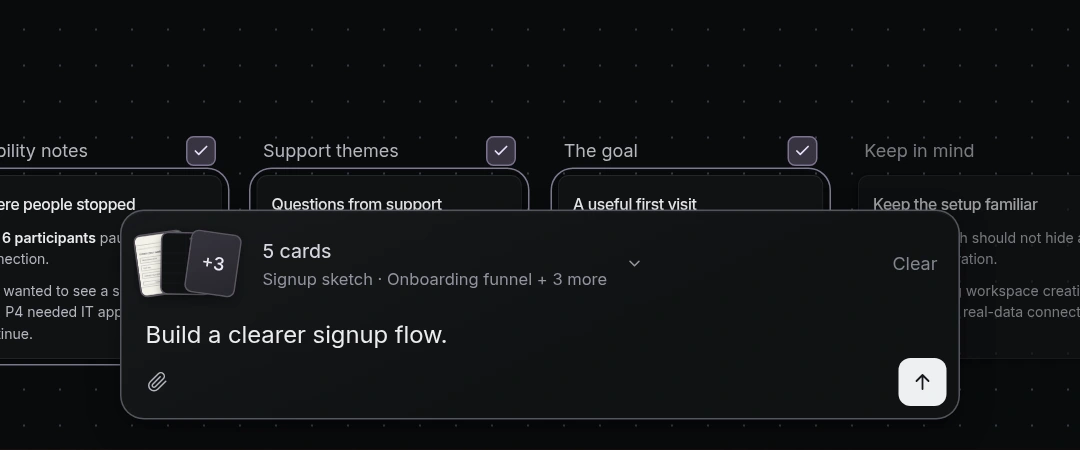
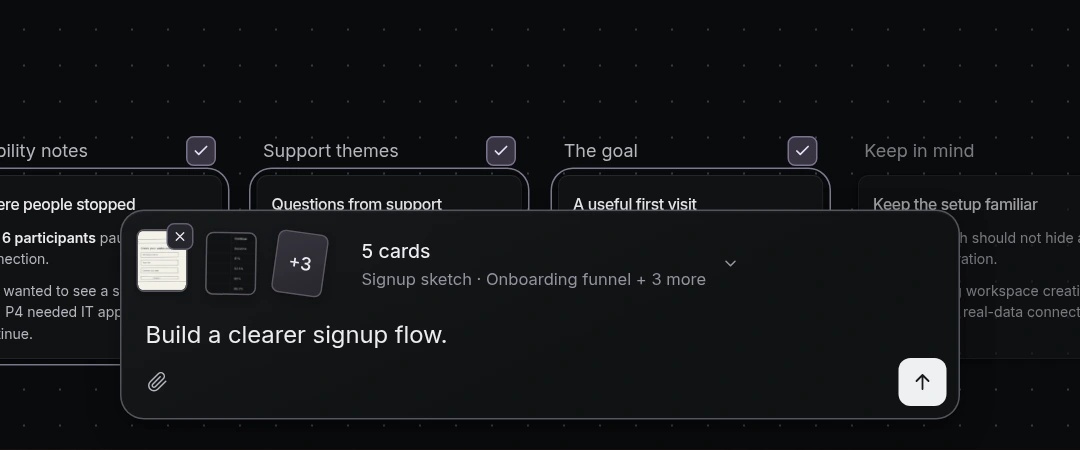
Place contextual dismiss controls directly on stack previews

Changed region(s): [[0.1222, 0.4978, 0.6417, 0.6844], [0.825, 0.56, 0.8556, 0.6222]]

diff --git a/studies/jarwiz-selection-stack/interaction.js b/studies/jarwiz-selection-stack/interaction.js
@@ -1,23 +1,23 @@
-const cards=window.selectionCards,byId=new Map(cards.map(c=>[c.id,c])),app=document.querySelector('#app'),canvas=document.querySelector('#canvas'),sources=document.querySelector('#sources'),composer=document.querySelector('#composer'),prompt=document.querySelector('#prompt'),region=document.querySelector('#context-region'),stack=document.querySelector('#stack-control'),popover=document.querySelector('#context-popover'),list=document.querySelector('#context-list'),scope=document.querySelector('#scope'),clear=document.querySelector('#clear-context'),status=document.querySelector('#review-status'),send=document.querySelector('#send');
+const cards=window.selectionCards,byId=new Map(cards.map(c=>[c.id,c])),app=document.querySelector('#app'),canvas=document.querySelector('#canvas'),sources=document.querySelector('#sources'),composer=document.querySelector('#composer'),prompt=document.querySelector('#prompt'),region=document.querySelector('#context-region'),stack=document.querySelector('#stack-control'),popover=document.querySelector('#context-popover'),list=document.querySelector('#context-list'),scope=document.querySelector('#scope'),stackGroup=document.querySelector('#stack-group'),previews=document.querySelector('#stack-previews'),status=document.querySelector('#review-status'),send=document.querySelector('#send');
 const closeIcon='<svg width="12" height="12" viewBox="0 0 16 16" fill="none" aria-hidden="true"><path d="m4 4 8 8m0-8-8 8" stroke="currentColor" stroke-width="1.4" stroke-linecap="round"/></svg>',checkIcon='<svg width="12" height="12" viewBox="0 0 16 16" fill="none" aria-hidden="true"><path d="m3 8 3 3 7-7" stroke="currentColor" stroke-width="1.5" stroke-linecap="round" stroke-linejoin="round"/></svg>';
 let selected=new Set(cards.slice(0,[1,2,5].includes(Number(new URLSearchParams(location.search).get('count')))?Number(new URLSearchParams(location.search).get('count')):1).map(c=>c.id)),variant='top',busy=false,timer=null,hot=null;const reduced=matchMedia('(prefers-reduced-motion: reduce)');
 const esc=s=>String(s).replaceAll('&','&amp;').replaceAll('"','&quot;').replaceAll('<','&lt;');
 for(const c of cards){const el=document.createElement('div');el.className='source tl-shape';el.dataset.source=c.id;el.dataset.shapeId=c.id;el.setAttribute('role','option');el.setAttribute('aria-label',c.title);el.tabIndex=0;el.innerHTML=`<span class="source-title">${esc(c.title)}</span><div class="tl-html-container" inert>${c.html}</div><span class="source-check" aria-hidden="true">${checkIcon}</span>`;sources.append(el);const root=el.querySelector('.tl-html-container').firstElementChild;root.style.removeProperty('outline');root.style.removeProperty('outline-offset');el.addEventListener('click',e=>{if(drag?.moved)return;changeCard(c.id,e.shiftKey||e.target.closest('.source-check')||innerWidth<650)});el.addEventListener('keydown',e=>{if(e.key===' '||e.key==='Enter'){e.preventDefault();changeCard(c.id,true)}});el.addEventListener('mouseenter',()=>highlight(c.id));el.addEventListener('mouseleave',()=>highlight(null));}
 function highlight(id){hot=id;for(const el of document.querySelectorAll('[data-source],[data-context]'))el.classList.toggle('is-hot',el.dataset.source===id||el.dataset.context===id)}
 function closePopover(){popover.hidden=true;stack.setAttribute('aria-expanded','false')}
-function openPopover(){if(!selected.size)return;popover.hidden=false;stack.setAttribute('aria-expanded','true');placeComposer()}
+function openPopover(remaining=false){if(!selected.size)return;popover.hidden=false;stack.setAttribute('aria-expanded','true');placeComposer();if(remaining)list.scrollTop=Math.max(0,(list.children[2]?.offsetTop||0)-(list.firstElementChild?.offsetTop||0));else list.scrollTop=0}
 function changeCard(id,add){if(busy)finish();if(add){selected.has(id)?selected.delete(id):selected.add(id)}else selected=new Set([id]);render()}
-function removeCard(id){if(busy)finish();selected.delete(id);render();prompt.focus({preventScroll:true})}
+function removeCard(id){if(busy)finish();selected.delete(id);hot=null;render();prompt.focus({preventScroll:true})}
 function render(){
  const active=[...selected].map(id=>byId.get(id)),n=active.length;
  for(const el of sources.children){const on=selected.has(el.dataset.source);el.classList.toggle('is-selected',on);el.classList.toggle('is-excluded',n>0&&!on);el.setAttribute('aria-selected',String(on))}
- list.innerHTML=active.map(c=>`<div class="context-entry" data-context="${esc(c.id)}"><img src="${c.thumb}" alt=""><span class="label">${esc(c.title)}<small>${c.kind==='image-card'?'Image':c.kind==='table-card'?'Table':'Document'}</small></span><button type="button" class="remove-context" data-remove="${esc(c.id)}" aria-label="Remove ${esc(c.title)}">${closeIcon}</button></div>`).join('');
- region.classList.toggle('is-hidden',n===0);stack.hidden=n===0;stack.dataset.size=n===1?'one':n===2?'two':'many';
+ list.innerHTML=active.map(c=>`<div class="context-entry" data-context="${esc(c.id)}"><div class="entry-preview"><img src="${c.thumb}" alt=""><button type="button" class="preview-dismiss" data-remove="${esc(c.id)}" aria-label="Remove ${esc(c.title)}">${closeIcon}</button></div><span class="label">${esc(c.title)}<small>${c.kind==='image-card'?'Image':c.kind==='table-card'?'Table':'Document'}</small></span></div>`).join('');
+ region.classList.toggle('is-hidden',n===0);stackGroup.hidden=n===0;stackGroup.dataset.size=n===1?'one':n===2?'two':'many';
  const visible=n>3?active.slice(0,2):active.slice(0,3);
- stack.querySelector('.mini-stack').innerHTML=visible.map(c=>`<img data-context="${esc(c.id)}" src="${c.thumb}" alt="">`).join('')+(n>3?`<span class="stack-tail" aria-hidden="true">+${n-2}</span>`:'');
+ previews.innerHTML=visible.map(c=>`<div class="stack-preview" data-context="${esc(c.id)}"><button type="button" class="preview-open" data-open-context aria-label="Review ${esc(c.title)}"><img src="${c.thumb}" alt=""></button><button type="button" class="preview-dismiss" data-remove="${esc(c.id)}" aria-label="Remove ${esc(c.title)}">${closeIcon}</button></div>`).join('')+(n>3?`<button type="button" class="stack-tail" data-open-remaining aria-label="Review ${n-2} more selected cards">+${n-2}</button>`:'');
  stack.querySelector('.stack-label').textContent=n+' '+(n===1?'card':'cards');
  stack.querySelector('.stack-detail').textContent=n>3?active.slice(0,2).map(c=>c.title).join(' · ')+' + '+(n-2)+' more':active.map(c=>c.title).join(' · ');
- stack.setAttribute('aria-label','Using '+n+' '+(n===1?'card':'cards')+'. Review selected context');scope.hidden=n>0;scope.textContent='Board context';clear.hidden=n===0;
+ stack.setAttribute('aria-label','Using '+n+' '+(n===1?'card':'cards')+'. Review selected context');scope.hidden=n>0;scope.textContent='Board context';
  document.querySelector('#popover-title').textContent='Using '+n+' '+(n===1?'card':'cards');
  prompt.placeholder=n===0?'Ask about anything on this board…':n===1?'What would you like to make from this?':'What would you like to make from these?';
  if(!n)closePopover();status.textContent=n?n+' '+(n===1?'card selected':'cards selected'):'No selection · the whole board is context';
@@ -32,11 +32,10 @@ function placeComposer(){const box=selectionBounds(),group=document.querySelecto
 function finish(){clearTimeout(timer);busy=false;composer.setAttribute('aria-busy','false');send.classList.remove('is-busy');send.setAttribute('aria-label','Send prompt');canvas.querySelector('.jz-board-context-field')?.remove();document.querySelector('.tl-background').classList.remove('jz-board-context-background');sources.querySelectorAll('.jz-board-context-reading').forEach(el=>{el.classList.remove('jz-board-context-reading');el.style.removeProperty('--jz-context-delay')});prompt.readOnly=false;}
 composer.addEventListener('submit',e=>{e.preventDefault();if(busy){finish();return}if(!prompt.value.trim())return;closePopover();busy=true;composer.setAttribute('aria-busy','true');send.classList.add('is-busy');send.setAttribute('aria-label','Stop generating');prompt.readOnly=true;const ids=selected.size?[...selected]:cards.map(c=>c.id);ids.forEach((id,i)=>{const el=sources.querySelector(`[data-source="${id}"]`);el.style.setProperty('--jz-context-delay',i*65+'ms');el.classList.add('jz-board-context-reading')});const field=document.createElement('div');field.className='jz-board-context-field';canvas.append(field);document.querySelector('.tl-background').classList.add('jz-board-context-background');status.textContent='Request preview · '+(selected.size?ids.length+' selected cards':'the whole board')+' · no model call';timer=setTimeout(finish,5900)});
 prompt.addEventListener('input',()=>{prompt.style.height='24px';prompt.style.height=Math.min(96,prompt.scrollHeight)+'px';send.disabled=!prompt.value.trim();placeComposer()});prompt.addEventListener('keydown',e=>{if(e.key==='Enter'&&!e.shiftKey){e.preventDefault();composer.requestSubmit()}});
-for(const container of [list]){container.addEventListener('click',e=>{const remove=e.target.closest('[data-remove]');if(remove){e.preventDefault();removeCard(remove.dataset.remove)}});container.addEventListener('pointerover',e=>{const chip=e.target.closest('[data-context]');if(chip)highlight(chip.dataset.context)});container.addEventListener('pointerleave',()=>highlight(null));container.addEventListener('focusin',e=>{const chip=e.target.closest('[data-context]');if(chip)highlight(chip.dataset.context)});container.addEventListener('focusout',()=>highlight(null));}
+for(const container of [list,previews]){container.addEventListener('click',e=>{const remove=e.target.closest('[data-remove]');if(remove){e.preventDefault();removeCard(remove.dataset.remove)}});container.addEventListener('pointerover',e=>{const chip=e.target.closest('[data-context]');if(chip)highlight(chip.dataset.context)});container.addEventListener('pointerleave',()=>highlight(null));container.addEventListener('focusin',e=>{const chip=e.target.closest('[data-context]');if(chip)highlight(chip.dataset.context)});container.addEventListener('focusout',()=>highlight(null));}
 stack.addEventListener('click',()=>popover.hidden?openPopover():closePopover());
-stack.addEventListener('pointerover',e=>{const thumb=e.target.closest('[data-context]');highlight(thumb?thumb.dataset.context:null)});stack.addEventListener('pointerleave',()=>highlight(null));
+previews.addEventListener('click',e=>{if(e.target.closest('[data-open-context]'))openPopover();if(e.target.closest('[data-open-remaining]'))openPopover(true)});
 document.querySelector('#close-context').addEventListener('click',()=>{closePopover();stack.focus()});
-clear.addEventListener('click',()=>{finish();selected.clear();render();prompt.focus({preventScroll:true})});
 document.querySelector('.attach').addEventListener('click',()=>status.textContent='This review focuses on selected cards; file upload is unchanged.');
 for(const b of document.querySelectorAll('button[data-count]'))b.addEventListener('click',()=>selectCount(Number(b.dataset.count)));
 document.addEventListener('keydown',e=>{if(e.key==='Escape'){if(!popover.hidden){closePopover();stack.focus()}else{finish();selected.clear();render()}}if((e.ctrlKey||e.metaKey)&&e.key==='a'&&document.activeElement!==prompt){e.preventDefault();selectCount(cards.length)}});

diff --git a/studies/jarwiz-selection-stack/index.html b/studies/jarwiz-selection-stack/index.html
@@ -1,11 +1,11 @@
-<!doctype html><html lang="en"><head><meta charset="utf-8"><meta name="viewport" content="width=device-width,initial-scale=1"><meta name="robots" content="noindex"><title>Jarwiz · Stack above the prompt</title><link rel="stylesheet" href="./style.css?v=1"><link rel="stylesheet" href="./top-stack.css?v=1"><link rel="stylesheet" href="./bloom.css"></head><body><main>
+<!doctype html><html lang="en"><head><meta charset="utf-8"><meta name="viewport" content="width=device-width,initial-scale=1"><meta name="robots" content="noindex"><title>Jarwiz · Stack above the prompt</title><link rel="stylesheet" href="./style.css?v=1"><link rel="stylesheet" href="./top-stack.css?v=hover-2"><link rel="stylesheet" href="./bloom.css"></head><body><main>
 <header class="page-header"><div><h1>A bigger stack, above the prompt.</h1><p>One card stays flat. Two fan out. Larger selections show a count.</p></div><a class="case-link" href="../jarwiz-selection-composer/">Previous options ↗</a></header>
-<div class="review-toolbar"><div class="count-tabs" role="group" aria-label="Preview selected card count"><button data-count="1" aria-pressed="true">1 card</button><button data-count="2" aria-pressed="false">2 cards</button><button data-count="5" aria-pressed="false">5 cards</button></div><p class="count-hint">Click the stack to review or remove cards.</p></div>
+<div class="review-toolbar"><div class="count-tabs" role="group" aria-label="Preview selected card count"><button data-count="1" aria-pressed="true">1 card</button><button data-count="2" aria-pressed="false">2 cards</button><button data-count="5" aria-pressed="false">5 cards</button></div><p class="count-hint">Hover a preview to dismiss it. Click the stack to see every card.</p></div>
 <div id="study-panel" aria-label="Selected-card composer prototype" class="study-frame"><div class="browser"><div class="chrome" aria-hidden="true"><i></i><i></i><i></i></div><div class="app" id="app" data-variant="top"><div class="tl-canvas" id="canvas"><div class="tl-background"></div><div class="selection-group" aria-hidden="true"></div><div id="sources" role="listbox" aria-label="Board cards" aria-multiselectable="true"></div><div id="marquee" aria-hidden="true"></div></div><div class="product-logo" aria-label="Jarwiz"><svg width="19" height="19" viewBox="0 0 24 24" aria-hidden="true"><path d="M12 1c1.7 7.4 3.6 9.3 11 11-7.4 1.7-9.3 3.6-11 11C10.3 15.6 8.4 13.7 1 12c7.4-1.7 9.3-3.6 11-11Z" fill="currentColor"/></svg></div>
-<form class="composer jz-promptbar" id="composer" aria-label="Ask Jarwiz"><div id="context-region" class="context-region"><div class="context-clip"><div class="top-context"><button class="top-stack" id="stack-control" type="button" aria-expanded="false" aria-controls="context-popover"><span class="mini-stack" aria-hidden="true"></span><span class="stack-copy"><span class="stack-label">1 card</span><span class="stack-detail">Signup sketch</span></span><svg width="12" height="12" viewBox="0 0 16 16" fill="none" aria-hidden="true"><path d="m4 6 4 4 4-4" stroke="currentColor" stroke-width="1.4" stroke-linecap="round" stroke-linejoin="round"/></svg></button><button id="clear-context" class="clear-context" type="button">Clear</button></div></div></div><div class="writing"><textarea id="prompt" rows="1" aria-label="Your prompt" placeholder="What would you like to make from these?">Build a clearer signup flow.</textarea></div><div class="composer-footer"><button class="icon-button attach" type="button" aria-label="Attach a file" title="File upload is outside this selection study"><svg width="14" height="14" viewBox="0 0 24 24" fill="none" stroke="currentColor" stroke-width="1.7" stroke-linecap="round" stroke-linejoin="round" aria-hidden="true"><path d="m21.44 11.05-9.19 9.19a6 6 0 0 1-8.49-8.49l9.19-9.19a4 4 0 0 1 5.66 5.66l-9.2 9.19a2 2 0 0 1-2.83-2.83l8.49-8.48"/></svg></button><span class="scope" id="scope" hidden>Board context</span><span class="footer-space"></span><button class="send" id="send" type="submit" aria-label="Send prompt" title="Preview this request"><span class="send-label">Generating</span><svg class="send-arrow" width="16" height="16" viewBox="0 0 24 24" fill="none" stroke="currentColor" stroke-width="1.8" stroke-linecap="round" stroke-linejoin="round" aria-hidden="true"><path d="M12 19V5m-6 6 6-6 6 6"/></svg><span class="send-stop" aria-hidden="true"></span></button></div><div class="context-popover" id="context-popover" hidden><div class="popover-heading"><span id="popover-title">Using 1 card</span><button type="button" id="close-context" class="text-button">Done</button></div><div id="context-list"></div></div></form>
+<form class="composer jz-promptbar" id="composer" aria-label="Ask Jarwiz"><div id="context-region" class="context-region"><div class="context-clip"><div class="top-context"><div class="top-stack" id="stack-group"><div class="mini-stack" id="stack-previews" role="group" aria-label="Selected card previews"></div><button class="stack-summary" id="stack-control" type="button" aria-expanded="false" aria-controls="context-popover"><span class="stack-copy"><span class="stack-label">1 card</span><span class="stack-detail">Signup sketch</span></span><svg width="12" height="12" viewBox="0 0 16 16" fill="none" aria-hidden="true"><path d="m4 6 4 4 4-4" stroke="currentColor" stroke-width="1.4" stroke-linecap="round" stroke-linejoin="round"/></svg></button></div></div></div></div><div class="writing"><textarea id="prompt" rows="1" aria-label="Your prompt" placeholder="What would you like to make from these?">Build a clearer signup flow.</textarea></div><div class="composer-footer"><button class="icon-button attach" type="button" aria-label="Attach a file" title="File upload is outside this selection study"><svg width="14" height="14" viewBox="0 0 24 24" fill="none" stroke="currentColor" stroke-width="1.7" stroke-linecap="round" stroke-linejoin="round" aria-hidden="true"><path d="m21.44 11.05-9.19 9.19a6 6 0 0 1-8.49-8.49l9.19-9.19a4 4 0 0 1 5.66 5.66l-9.2 9.19a2 2 0 0 1-2.83-2.83l8.49-8.48"/></svg></button><span class="scope" id="scope" hidden>Board context</span><span class="footer-space"></span><button class="send" id="send" type="submit" aria-label="Send prompt" title="Preview this request"><span class="send-label">Generating</span><svg class="send-arrow" width="16" height="16" viewBox="0 0 24 24" fill="none" stroke="currentColor" stroke-width="1.8" stroke-linecap="round" stroke-linejoin="round" aria-hidden="true"><path d="M12 19V5m-6 6 6-6 6 6"/></svg><span class="send-stop" aria-hidden="true"></span></button></div><div class="context-popover" id="context-popover" hidden><div class="popover-heading"><span id="popover-title">Using 1 card</span><button type="button" id="close-context" class="icon-button close-list" aria-label="Close context"><svg width="12" height="12" viewBox="0 0 16 16" fill="none" aria-hidden="true"><path d="m4 4 8 8m0-8-8 8" stroke="currentColor" stroke-width="1.4" stroke-linecap="round"/></svg></button></div><div id="context-list"></div></div></form>
 </div></div></div>
 
-<div class="review-footer"><p>Shift-click the board to change context. Your prompt stays intact.</p><p id="review-status" role="status">1 card selected</p></div>
-<section class="stack-examples" aria-label="Single, two and more than three selected cards"><article><button class="example-image" data-count="1" aria-label="Try one card"><img src="./assets/one-card.webp" alt="One selected card is shown as a single larger preview above the prompt" width="720" height="300"></button><h2>One card</h2><p>A single preview, with its title.</p></article><article><button class="example-image" data-count="2" aria-label="Try two cards"><img src="./assets/two-cards.webp" alt="Two selected cards fan into a larger stack above the prompt" width="720" height="300"></button><h2>Two cards</h2><p>Both previews remain visible in the stack.</p></article><article><button class="example-image" data-count="5" aria-label="Try five cards"><img src="./assets/five-cards.webp" alt="A five-card selection shows two source previews and a plus-three card above the prompt" width="720" height="300"></button><h2>More than three</h2><p>Two previews and a +3 card keep five sources compact.</p></article></section>
+<div class="review-footer"><p>Hover reveals ×. Keyboard focus and touch show it too. Your prompt stays intact.</p><p id="review-status" role="status">1 card selected</p></div>
+<section class="stack-examples" aria-label="Single, two and more than three selected cards"><article><button class="example-image" data-count="1" aria-label="Try one card"><img src="./assets/one-card.webp?v=hover-2" alt="One selected card is shown as a single larger preview above the prompt" width="720" height="300"></button><h2>One card</h2><p>A single preview, with its title.</p></article><article><button class="example-image" data-count="2" aria-label="Try two cards"><img src="./assets/two-cards.webp?v=hover-2" alt="Two selected cards fan into a larger stack above the prompt" width="720" height="300"></button><h2>Two cards</h2><p>Both previews remain visible in the stack.</p></article><article><button class="example-image" data-count="5" aria-label="Try five cards"><img src="./assets/five-cards.webp?v=hover-2" alt="A five-card selection shows two source previews and a plus-three card above the prompt" width="720" height="300"></button><h2>More than three</h2><p>Two previews and a +3 card keep five sources compact.</p></article></section>
 <p class="study-note">This is an interaction preview. Send shows which cards would be used; no model is called. The product and the next video are unchanged.</p>
-</main><script src="./cards.js"></script><script src="./interaction.js?v=1"></script></body></html>
+</main><script src="./cards.js"></script><script src="./interaction.js?v=hover-2"></script></body></html>

diff --git a/studies/jarwiz-selection-stack/top-stack.css b/studies/jarwiz-selection-stack/top-stack.css
@@ -1,2 +1,4 @@
 .count-tabs{display:flex;gap:4px;padding:4px;border:1px solid #ffffff0d;border-radius:12px;background:#1c1c1c}.count-tabs button{padding:9px 20px;border:0;border-radius:8px;background:none;color:#969696;font-size:14px;transition:background .16s,color .16s}.count-tabs button[aria-pressed=true]{background:#303030;color:#f0f0f0}.count-hint{font-size:13px;color:#929292}.review-toolbar{margin-bottom:20px}.top-context{display:flex;align-items:center;gap:8px;min-height:54px;margin-bottom:8px}.top-stack{display:flex;align-items:center;gap:10px;min-height:54px;min-width:0;max-width:calc(100% - 44px);padding:0 4px 0 0;border:0;border-radius:8px;background:none;text-align:left;color:#d7d8de}.top-stack:hover .stack-label,.top-stack[aria-expanded=true] .stack-label{color:#f1eff5}.top-stack>svg{flex:0 0 12px;margin-left:2px;color:#94949f;transition:transform .18s}.top-stack[aria-expanded=true]>svg{transform:rotate(180deg)}.top-stack .mini-stack{position:relative;display:block;flex:0 0 auto;height:52px;width:76px;isolation:isolate;transition:width .22s cubic-bezier(.22,1,.36,1)}.top-stack[data-size=one] .mini-stack{width:44px}.top-stack[data-size=two] .mini-stack{width:62px}.top-stack .mini-stack img,.top-stack .stack-tail{position:absolute;top:5px;width:34px;height:42px;border:1px solid #5b5660;border-radius:5px;box-shadow:0 2px 6px #0004;object-fit:cover;object-position:top;background:#25262b;transition:transform .2s cubic-bezier(.22,1,.36,1),left .2s cubic-bezier(.22,1,.36,1)}.top-stack .mini-stack img:nth-child(1){left:2px;z-index:1;transform:rotate(-8deg)}.top-stack .mini-stack img:nth-child(2){left:18px;z-index:2;transform:rotate(1deg)}.top-stack .mini-stack img:nth-child(3),.top-stack .stack-tail{left:36px;z-index:3;transform:rotate(8deg)}.top-stack[data-size=one] .mini-stack img{left:2px;transform:rotate(0)}.top-stack[data-size=two] .mini-stack img:nth-child(2){left:22px;transform:rotate(6deg)}.top-stack .stack-tail{display:grid;place-items:center;background:linear-gradient(155deg,#36343d,#27272e);font-size:12px;line-height:18px;font-weight:500;color:#eee9f5}.top-stack:hover .mini-stack img:first-child{transform:rotate(-10deg) translateX(-1px)}.top-stack[data-size=one]:hover .mini-stack img{transform:rotate(-2deg)}.stack-copy{display:flex;flex-direction:column;gap:2px;min-width:0;max-width:330px}.stack-label{font:450 13px/18px 'Inter Variable',Arial,sans-serif;color:#d6d6df;white-space:nowrap}.stack-detail{font:400 11px/16px 'Inter Variable',Arial,sans-serif;color:#92949e;white-space:normal;text-wrap:pretty}.top-context .clear-context{margin-left:auto;flex:0 0 auto;padding:4px 6px}.composer-footer .scope[hidden]{display:none}.context-popover{width:350px}.popover-heading{padding:4px 5px 8px}.context-entry{padding:7px 6px}.context-entry img{width:50px;height:38px}.stack-examples{display:grid;grid-template-columns:repeat(3,1fr);gap:24px;margin-top:48px}.example-image{display:block;padding:0;width:100%;border:1px solid #ffffff0c;background:#202123;border-radius:12px;overflow:hidden}.example-image:hover{border-color:#ffffff30}.example-image img{display:block;width:100%;height:auto;aspect-ratio:2.4;object-fit:cover}.stack-examples h2{margin:16px 0 6px;font-size:17px;line-height:24px;font-weight:400}.stack-examples p{font-size:14px;line-height:22px;color:#929292}@media(max-width:650px){.review-toolbar{gap:10px}.count-tabs{width:100%}.count-tabs button{flex:1;padding:9px 12px}.count-hint{font-size:12px}.top-stack{gap:8px}.stack-copy{max-width:none}.stack-detail{font-size:11px}.top-context{min-height:56px}.stack-examples{grid-template-columns:1fr;gap:28px;margin-top:32px}.review-footer{font-size:12px}.page-header p{max-width:320px}}@media(prefers-reduced-motion:reduce){.mini-stack,.mini-stack img,.stack-tail{transition:none!important}}
 .top-stack[hidden]{display:none}
+/* Dismiss controls belong to each card, not to a separate Clear action. */
+.top-stack{max-width:100%;padding:0;gap:8px}.top-stack[hidden]{display:none}.stack-summary{display:flex;align-items:center;gap:10px;min-width:0;padding:5px 4px;border:0;border-radius:6px;color:#d7d8de;background:none;text-align:left}.stack-summary>svg{flex:0 0 12px;color:#94949f;transition:transform .18s}.stack-summary[aria-expanded=true]>svg{transform:rotate(180deg)}.top-stack .mini-stack img{position:static;width:100%;height:100%;border:0;border-radius:4px;box-shadow:none;transform:none!important;object-fit:cover;object-position:top}.stack-preview{position:absolute;top:5px;width:34px;height:42px;border:1px solid #5b5660;border-radius:5px;background:#25262b;box-shadow:0 2px 6px #0004;transition:left .22s cubic-bezier(.22,1,.36,1),transform .22s cubic-bezier(.22,1,.36,1)}.stack-preview:nth-child(1){left:2px;z-index:1;transform:rotate(-8deg)}.stack-preview:nth-child(2){left:18px;z-index:2;transform:rotate(1deg)}.stack-preview:nth-child(3){left:36px;z-index:3;transform:rotate(8deg)}.top-stack[data-size=one] .stack-preview{left:2px;transform:none}.top-stack[data-size=two] .stack-preview:nth-child(2){left:22px;transform:rotate(6deg)}.preview-open{display:block;width:100%;height:100%;padding:0;border:0;border-radius:4px;overflow:hidden;background:none}.preview-dismiss{position:absolute;right:-5px;top:-5px;z-index:8;display:grid;place-items:center;width:18px;height:18px;border:1px solid #635d70;border-radius:5px;background:#26262d;color:#eee9f3;padding:0;opacity:0;pointer-events:none;transform:scale(.92);transition:opacity .12s,transform .15s,background .12s}.preview-dismiss svg{width:10px;height:10px}.preview-dismiss::after{content:"";position:absolute;inset:-3px}.preview-dismiss:hover{background:#403b49}.stack-preview:hover,.stack-preview:focus-within{z-index:6;transform:translateY(-2px) rotate(0)!important}.stack-preview:hover .preview-dismiss,.stack-preview:focus-within .preview-dismiss,.entry-preview:hover .preview-dismiss,.entry-preview:focus-within .preview-dismiss{opacity:1;pointer-events:auto;transform:scale(1)}.top-stack:has(.mini-stack:hover) .mini-stack,.top-stack:has(.mini-stack:focus-within) .mini-stack{width:140px}.top-stack[data-size=one]:has(.mini-stack:hover) .mini-stack,.top-stack[data-size=one]:has(.mini-stack:focus-within) .mini-stack{width:44px}.top-stack[data-size=two]:has(.mini-stack:hover) .mini-stack,.top-stack[data-size=two]:has(.mini-stack:focus-within) .mini-stack{width:96px}.mini-stack:hover .stack-preview:nth-child(2),.mini-stack:focus-within .stack-preview:nth-child(2){left:48px}.mini-stack:hover .stack-preview:nth-child(3),.mini-stack:focus-within .stack-preview:nth-child(3),.mini-stack:hover .stack-tail,.mini-stack:focus-within .stack-tail{left:94px}.stack-tail{padding:0;cursor:pointer}.stack-tail:hover{background:#403b49}.entry-preview{position:relative;width:50px;height:38px;flex:0 0 50px;margin-right:2px}.entry-preview img{display:block;width:100%;height:100%;object-fit:cover;border-radius:4px}.context-entry{gap:12px}.context-entry .preview-dismiss{right:-4px;top:-4px}.context-entry:hover .preview-dismiss{opacity:1;pointer-events:auto;transform:scale(1)}.close-list{width:24px;height:24px;flex:0 0 24px}.top-context .stack-copy{max-width:330px}.top-stack:has(.mini-stack:hover) .stack-detail,.top-stack:has(.mini-stack:focus-within) .stack-detail{max-width:310px}@media(hover:none){.preview-dismiss{opacity:1;pointer-events:auto;transform:none}.top-stack .mini-stack{width:140px}.top-stack[data-size=one] .mini-stack{width:44px}.top-stack[data-size=two] .mini-stack{width:96px}.stack-preview:nth-child(2){left:48px!important}.stack-preview:nth-child(3),.top-stack .stack-tail{left:94px!important}}@media(prefers-reduced-motion:reduce){.stack-preview,.preview-dismiss{transition:none!important}}
